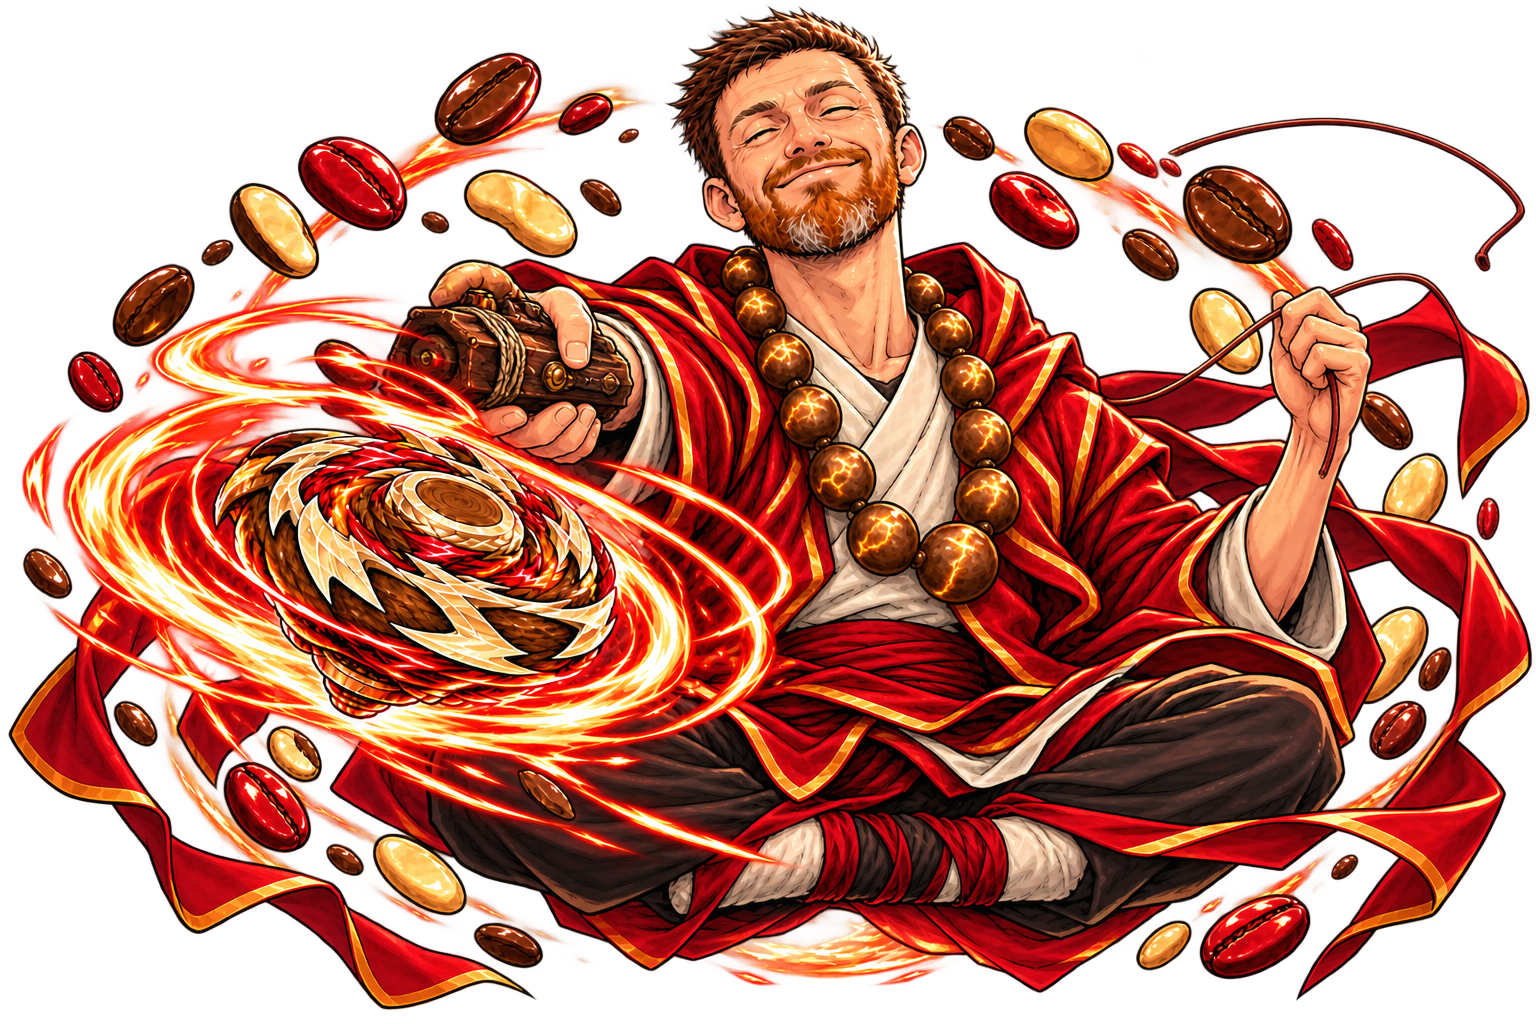
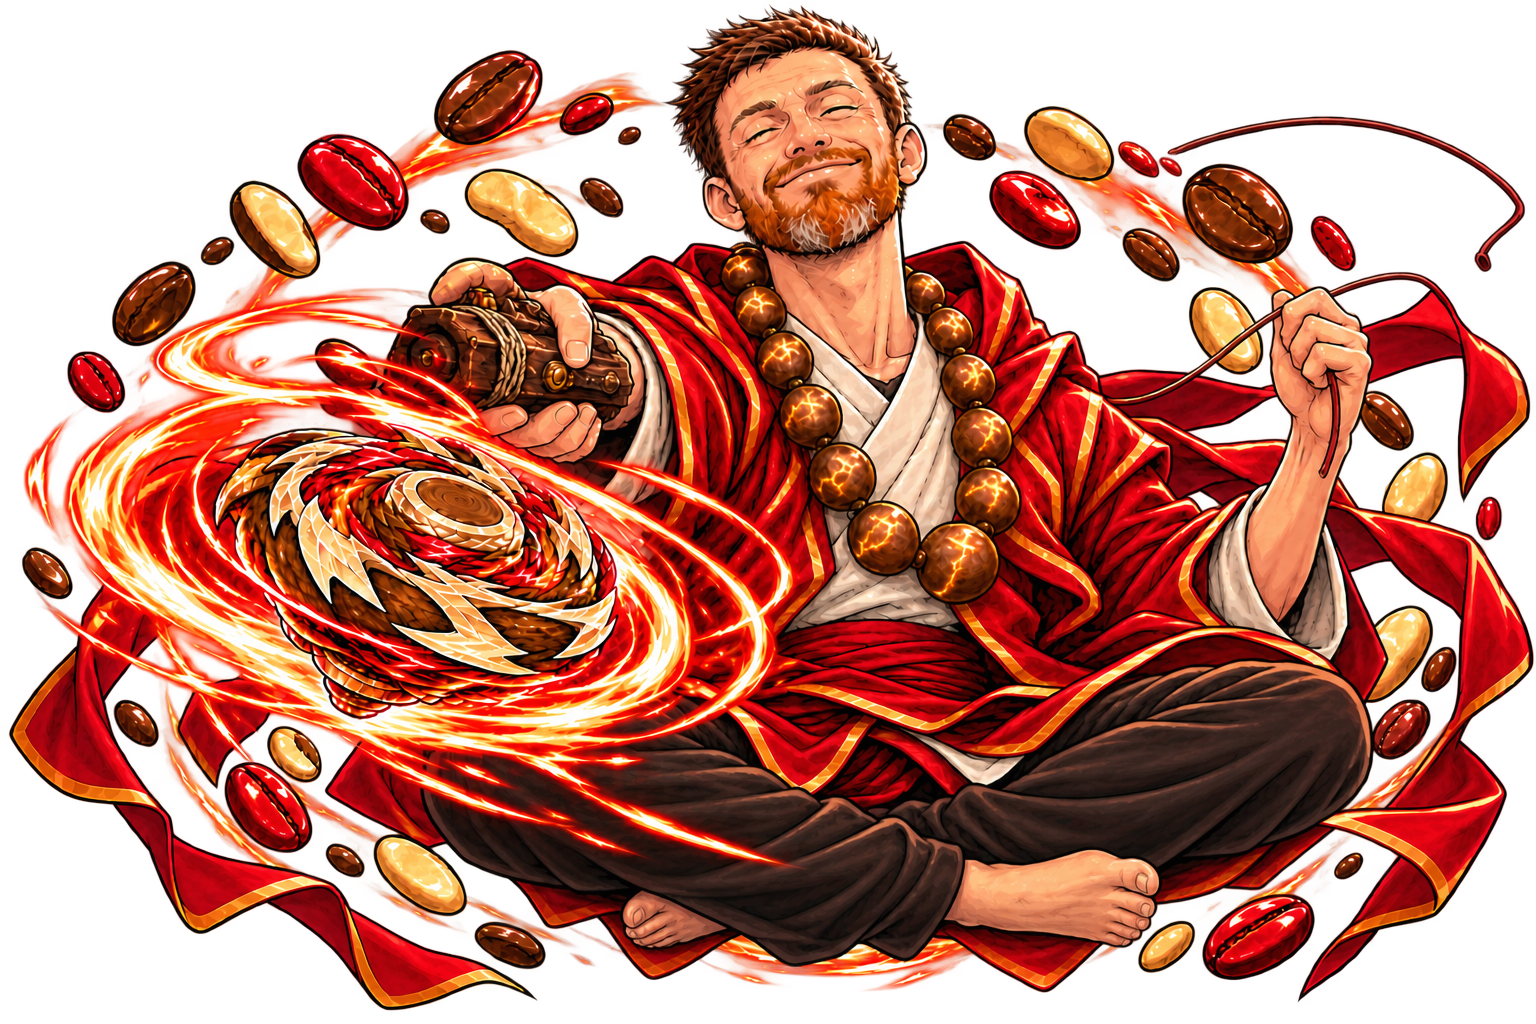
Beanblader: fix the legs so they read as two

diff --git a/fighter-art/POSE-PLAN.md b/fighter-art/POSE-PLAN.md
@@ -50,7 +50,7 @@ twelve versions of one shot.
 - **Mood:** serene, exaggerated: eyes closed in deep calm, brows lifted, a broad, peaceful smile.
 - **Likeness:** from Ronan's photos (`likeness/beanblader.md`), the newest one as master: a long narrow face, short dark brown hair, a short ginger-auburn beard, slim.
 - **Outfit, leaning cyberpunk (user's choice), same silhouette:** a crimson tech-monk robe with panel seams and glowing bronze trim over a cream undershirt; the big wooden beads carry faint glowing runes.
-- **Status:** **approved 2026-10-30** as `approved/beanblader.png` (version D). History in `prompts/beanblader.md`. In the app with a new face point; both victory images redone (2026-10-30).
+- **Status:** **approved 2026-10-30** as `approved/beanblader.png` (version D; legs fixed in version F, 2026-10-31). History in `prompts/beanblader.md`. In the app with a new face point; both victory images redone (2026-10-30).
 - **Note:** replaces the old open-hand reach, which had no launcher or ripcord. This also replaces the earlier sliding-launch plan.
 
 **2. The Beyby** (Eamon): hoodie, face mask, pink and purple

diff --git a/fighter-art/prompts/beanblader.md b/fighter-art/prompts/beanblader.md
@@ -4,7 +4,8 @@ Redesign, 2026-10-30. The user said his likeness was off; he is a monk-like figu
 so the pose expresses that: a levitating lotus launch, serene face, cyberpunk-lean
 robe (user's choices).
 
-**Approved: `approved/beanblader.png`** (a copy of `candidates/beanblader-D.png`).
+**Approved: `approved/beanblader.png`** (a copy of `candidates/beanblader-F.png`, 2026-10-31;
+version D with the legs redrawn so they read as two).
 1536×1024, transparent, face found at 0.93. In the app with a new face point; no
 mirror flag (he launches toward the viewer's left).
 
